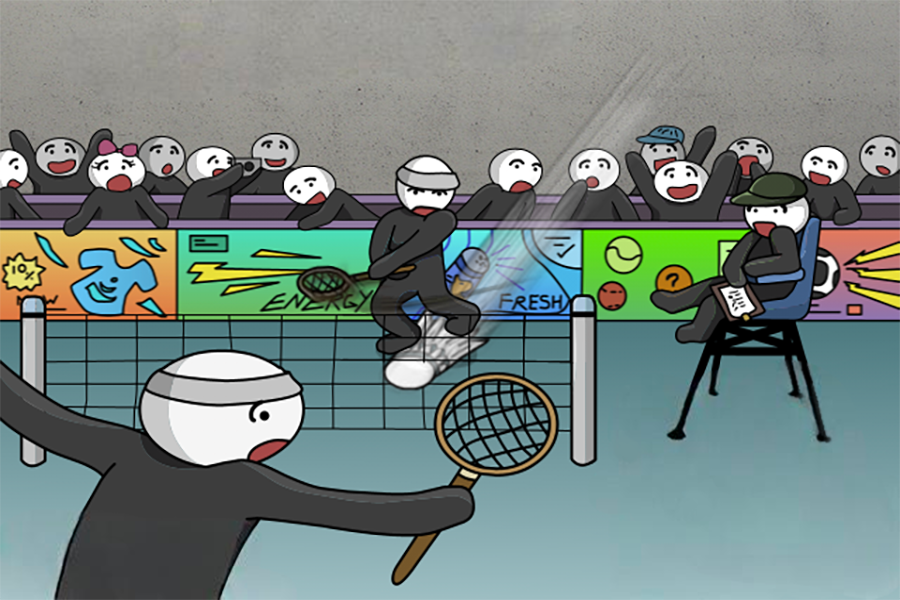
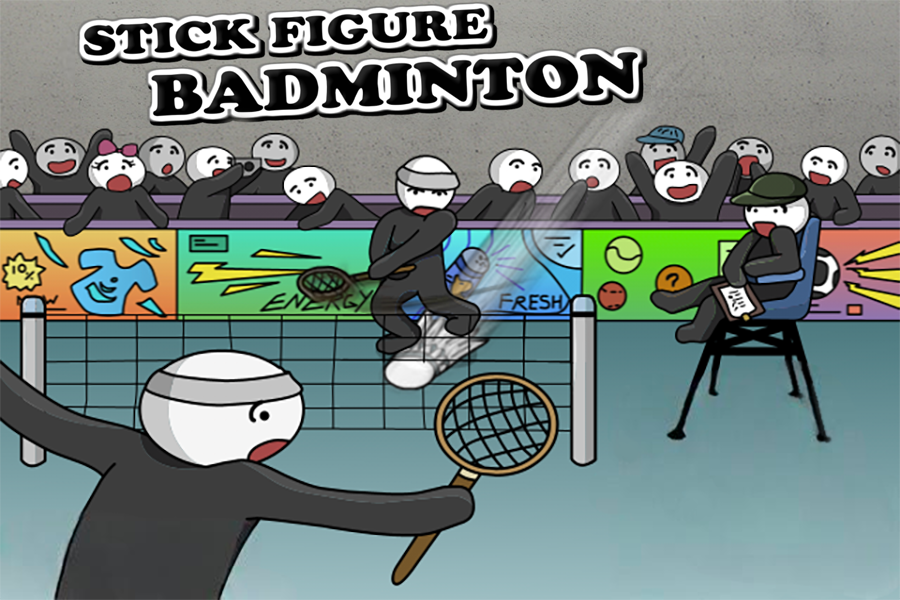
修暂停界面返回主界面bug，改标题界面背景

Changed region(s): [[0.0622, 0.0, 0.7156, 0.21]]

diff --git a/src/main/java/org/stickbadminton/MyGameMenu.java b/src/main/java/org/stickbadminton/MyGameMenu.java
@@ -58,11 +58,7 @@ public class MyGameMenu extends FXGLMenu {
         Button backButton = new Button("返回主菜单");
         backButton.setStyle("-fx-font-family: '黑体'; -fx-font-size: 18px; -fx-font-weight: bold; -fx-padding: 10px 20px;");
         backButton.setOnAction(e -> {
-            SoundPlay.playBackgroundMusic(); fireResume();
-            FXGL.getGameWorld().getEntities().clear();
-            FXGL.getGameScene().clearUINodes();
-            RoomTitle roomTitle = new RoomTitle();
-            roomTitle.enter();
+            FXGL.getGameController().startNewGame();
         });
 
         VBox box = new VBox(30, title, resumeButton, backButton, exitButton);
